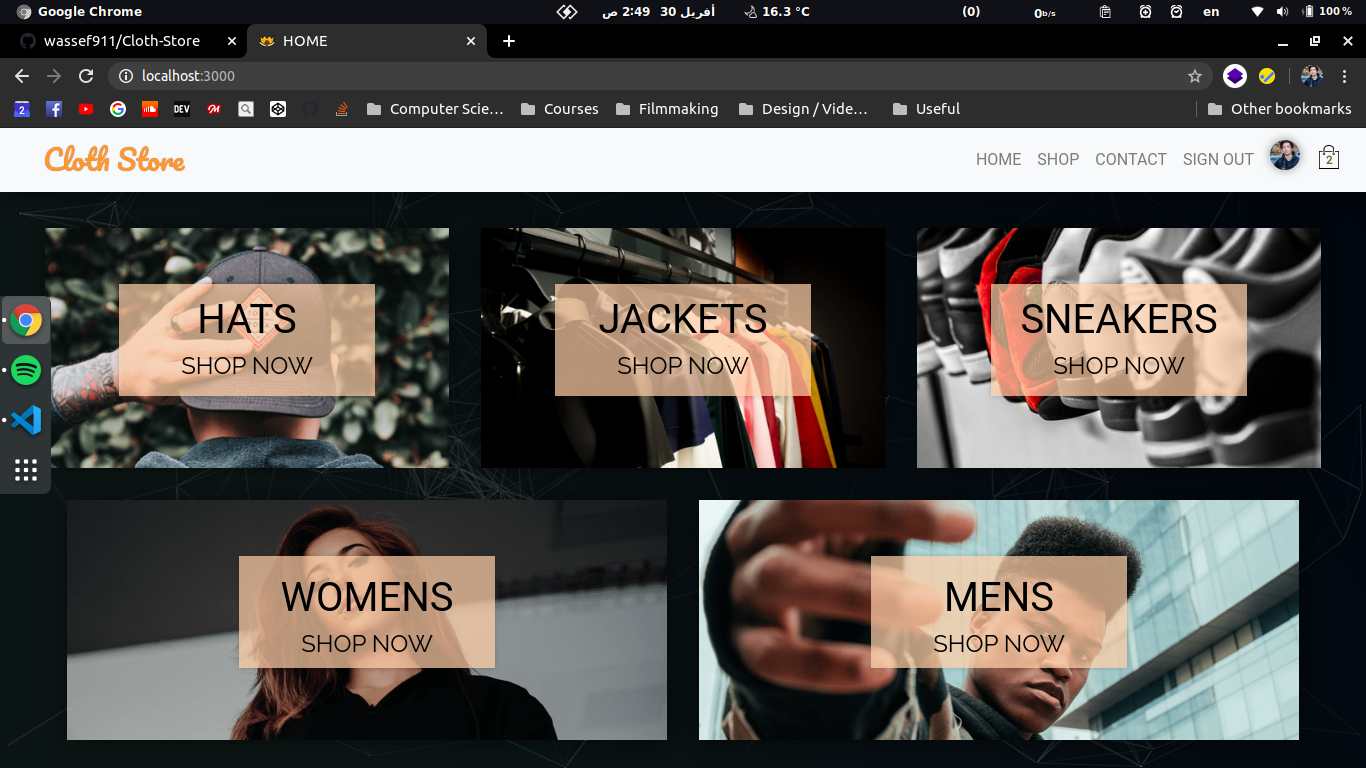
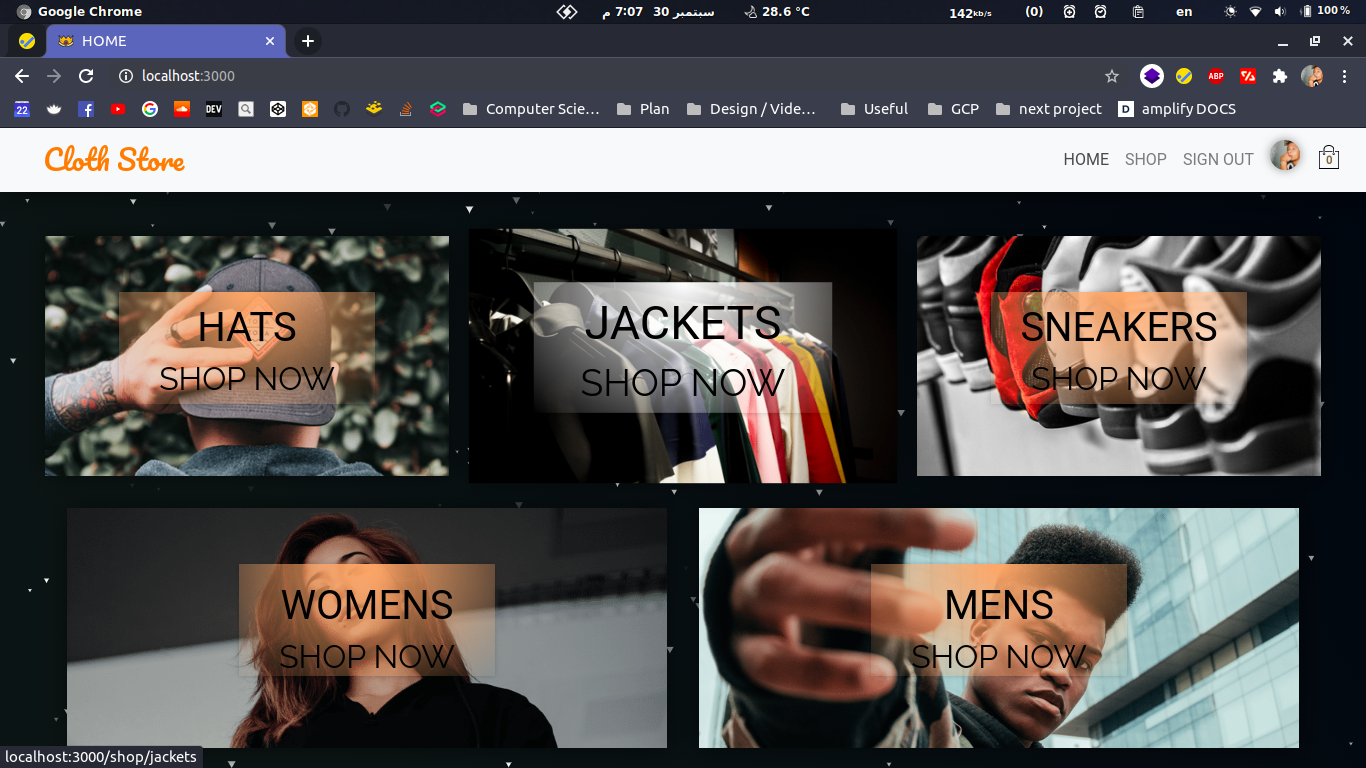
final

diff --git a/client/src/js/utils/particles.js b/client/src/js/utils/particles.js
@@ -1,10 +1,10 @@
 const params = {
   particles: {
     number: {
-      value: 150,
+      value: 160,
       density: {
         enable: true,
-        value_area: 1000,
+        value_area: 800,
       },
     },
     color: {
@@ -13,35 +13,40 @@ const params = {
     shape: {
       type: "polygon",
       stroke: {
-        width: 2,
+        width: 0,
         color: "#000000",
       },
       polygon: {
-        nb_sides: 5,
+        nb_sides: 3,
+      },
+      image: {
+        src: "img/github.svg",
+        width: 100,
+        height: 100,
       },
     },
     opacity: {
       value: 1,
-      random: false,
+      random: true,
       anim: {
-        enable: false,
-        speed: 10,
-        opacity_min: 0.1,
+        enable: true,
+        speed: 1,
+        opacity_min: 0,
         sync: false,
       },
     },
     size: {
-      value: 0,
+      value: 3,
       random: true,
       anim: {
         enable: false,
-        speed: 40,
-        size_min: 0.1,
+        speed: 4,
+        size_min: 0.3,
         sync: false,
       },
     },
     line_linked: {
-      enable: true,
+      enable: false,
       distance: 150,
       color: "#ffffff",
       opacity: 0.4,
@@ -49,16 +54,16 @@ const params = {
     },
     move: {
       enable: true,
-      speed: 6,
+      speed: 1,
       direction: "none",
-      random: false,
+      random: true,
       straight: false,
       out_mode: "out",
       bounce: false,
       attract: {
         enable: false,
         rotateX: 600,
-        rotateY: 1200,
+        rotateY: 600,
       },
     },
   },
@@ -66,12 +71,12 @@ const params = {
     detect_on: "canvas",
     events: {
       onhover: {
-        enable: true,
-        mode: "repulse",
+        enable: false,
+        mode: "bubble",
       },
       onclick: {
-        enable: false,
-        mode: "push",
+        enable: true,
+        mode: "repulse",
       },
       resize: true,
     },
@@ -83,14 +88,14 @@ const params = {
         },
       },
       bubble: {
-        distance: 400,
-        size: 40,
+        distance: 250,
+        size: 0,
         duration: 2,
-        opacity: 8,
+        opacity: 0,
         speed: 3,
       },
       repulse: {
-        distance: 80,
+        distance: 400,
         duration: 0.4,
       },
       push: {
@@ -101,6 +106,6 @@ const params = {
       },
     },
   },
-  retina_detect: true,
+  retina_detect: false,
 };
 export default params;

diff --git a/client/src/js/components/navBar-Components/cartDropDown.jsx b/client/src/js/components/navBar-Components/cartDropDown.jsx
@@ -10,37 +10,39 @@ import { selectCartItems } from "../../../redux/cart/cartSelector";
 function CartDropDown({ cartItems, history, toggleCartHidden }) {
   return (
     <div
-      class="modal fade"
+      className="modal fade"
       id="exampleModalScrollable"
-      tabindex="-1"
+      tabIndex="-1"
       role="dialog"
       aria-labelledby="exampleModalScrollableTitle"
       aria-hidden="true"
     >
-      <div class="modal-dialog modal-dialog-scrollable" role="document">
-        <div class="modal-content">
+      <div className="modal-dialog modal-dialog-scrollable" role="document">
+        <div className="modal-content">
           <button
             type="button"
-            class="close btn btn-primary"
+            className="close btn btn-primary"
             data-dismiss="modal"
             aria-label="Close"
             onClick={toggleCartHidden}
           >
             <span aria-hidden="true">&times;</span>
           </button>
-          <div class="modal-body d-flex-column justify-content-center align-content-center ">
+          <div className="modal-body d-flex-column justify-content-center align-content-center ">
             {cartItems.length > 0 ? (
               cartItems.map((item) => (
                 <SmallCardPreview key={item.id} item={item} />
               ))
             ) : (
-              <div class="alert alert-warning">Yes you need new clothes !</div>
+              <div className="alert alert-warning">
+                Yes you need new clothes !
+              </div>
             )}
           </div>
-          <div class="modal-footer">
+          <div className="modal-footer">
             <button
               type="button"
-              class="btn btn-outline-primary btn-sm btn-block"
+              className="btn btn-outline-primary btn-sm btn-block"
               onClick={() => history.push("/checkout")}
             >
               GO TO CHECKOUT
@@ -59,13 +61,6 @@ const mapStateToProps = createStructuredSelector({
 const mapDispatchToProps = (dispatch) => ({
   toggleCartHidden: () => dispatch(toggleCartHidden()),
 });
-
-/*
-const mapStateToProps = (state) => ({
-  cartItems: selectCartItems(state),
-});
-
-*/
 
 export default withRouter(
   connect(mapStateToProps, mapDispatchToProps)(CartDropDown)

diff --git a/client/src/js/pages/checkout/checkout.jsx b/client/src/js/pages/checkout/checkout.jsx
@@ -1,4 +1,15 @@
 import React from "react";
+import { connect } from "react-redux";
+import { createStructuredSelector } from "reselect";
+import {
+  selectCartItems,
+  selectCartItemsTotal,
+} from "../../../redux/cart/cartSelector";
+import {
+  clearItem,
+  decQuantity,
+  addItem,
+} from "../../../redux/cart/cartAction";
 
 import "./checkout.scss";
 import StripeButton from "../../components/stripeButton";
@@ -9,8 +20,8 @@ function Checkout({ cartItems, Total, clearItem, decQuantity, addItem }) {
       {Total > 0 ? (
         <div className="d-flex  align-items-center justify-content-around titles">
           {["Product", "Description", "Quantity", "Price", "Remove"].map(
-            (desc) => (
-              <h4 className="title ">{desc}</h4>
+            (value) => (
+              <h4 className="title ">{value}</h4>
             )
           )}
         </div>
@@ -56,4 +67,13 @@ function Checkout({ cartItems, Total, clearItem, decQuantity, addItem }) {
     </>
   );
 }
-export default Checkout;
+const mapDispatchToProps = (dispatch) => ({
+  clearItem: (item) => dispatch(clearItem(item)),
+  decQuantity: (item) => dispatch(decQuantity(item)),
+  addItem: (item) => dispatch(addItem(item)),
+});
+const mapStateToProps = createStructuredSelector({
+  cartItems: selectCartItems,
+  Total: selectCartItemsTotal,
+});
+export default connect(mapStateToProps, mapDispatchToProps)(Checkout);

diff --git a/client/src/app.jsx b/client/src/app.jsx
@@ -22,14 +22,14 @@ const Sign = React.lazy(() => import("./js/pages/sign/sign"));
 function App({ currentUser, checkUserSession }) {
   React.useEffect(() => {
     checkUserSession();
-  }, []);
+  }, [currentUser]);
   return (
     <div>
-      <Particles className="particles " params={params} />
+      <Particles className="particles" params={params} />
       <NavBar />
       <Switch>
         <ErrorBoundry>
-          <React.Suspense fallback={Spinner}>
+          <React.Suspense fallback={<Spinner />}>
             <Route exact path="/" component={Homepage} />
             <Route path="/shop" component={Shop} />
             <Route

diff --git a/client/src/_variables.scss b/client/src/_variables.scss
@@ -17,7 +17,7 @@ $color2: #faa76f;
 $color3: #ffffff;
 
 @mixin hovereffect($bg, $col) {
-  background-color: $bg;
+  background: radial-gradient(ellipse at top, $bg, transparent);
   color: $col;
   cursor: default;
 }
@@ -31,3 +31,7 @@ $color3: #ffffff;
   background: radial-gradient(ellipse at top, $color3, transparent),
     radial-gradient(ellipse at bottom, #f8f8f800, transparent);
 }
+$theme-colors: (
+  "primary": $color1,
+);
+@import "node_modules/bootstrap/scss/bootstrap";

diff --git a/client/src/app.scss b/client/src/app.scss
@@ -1,10 +1,5 @@
 @import "./variables";
 
-$theme-colors: (
-  "primary": $color1,
-);
-@import "node_modules/bootstrap/scss/bootstrap";
-
 html {
   height: 100%;
   overflow-x: hidden;
@@ -31,7 +26,6 @@ html {
       z-index: -1;
       height: 100%;
       width: 100%;
-      opacity: (0.3);
     }
     .validation {
       padding-top: 0.7em;

diff --git a/client/src/js/pages/shop/shop.jsx b/client/src/js/pages/shop/shop.jsx
@@ -14,7 +14,7 @@ function Shop({ match, fetchCollections }) {
   }, []);
   return (
     <div id="scrollBarStyle">
-      <Suspense fallback={Spinner}>
+      <Suspense fallback={<Spinner />}>
         <Route exact path={`${match.path}`} component={ShopCollection} />
         <Route
           exact

diff --git a/client/src/js/containers/shopCollection.jsx b/client/src/js/containers/shopCollection.jsx
@@ -17,4 +17,4 @@ function CollectionOverview({ shopData }) {
 const mapStateToProps = createStructuredSelector({
   shopData: selectCollectionsForPreview,
 });
-export default connect(mapStateToProps)(CollectionOverview);
+export default connect(mapStateToProps)(React.memo(CollectionOverview));

diff --git a/client/src/js/components/card-preview.jsx b/client/src/js/components/card-preview.jsx
@@ -20,7 +20,7 @@ function CardPreview({ item, addItem }) {
         </div>
         <div className="card-info d-flex justify-content-between">
           <h5>{name}</h5>
-          <h5>{price} DT</h5>
+          <h4>{price} DT</h4>
         </div>
       </div>
     </div>

diff --git a/client/src/js/containers/collection-page.jsx b/client/src/js/containers/collection-page.jsx
@@ -24,4 +24,4 @@ const mapStateToProps = (state, OwnProps) => ({
   )(state),
 });
 
-export default connect(mapStateToProps)(CollectionPage);
+export default connect(mapStateToProps)(React.memo(CollectionPage));

diff --git a/client/src/js/containers/section-preview.scss b/client/src/js/containers/section-preview.scss
@@ -2,8 +2,8 @@
 
 .SectionPreview {
   span {
-    padding-left: 15%;
-    margin: 2.5%;
+    padding-left: 25px;
+    letter-spacing: 0.2em;
     font-size: 1.2em;
     text-decoration: none;
     &:hover {

diff --git a/client/src/js/containers/gallery-image.scss b/client/src/js/containers/gallery-image.scss
@@ -1,6 +1,7 @@
 @import "../../variables";
 
 #ImageGallery {
+  overflow: hidden;
   & .GalleryImage {
     text-align: center;
     background-size: cover;
